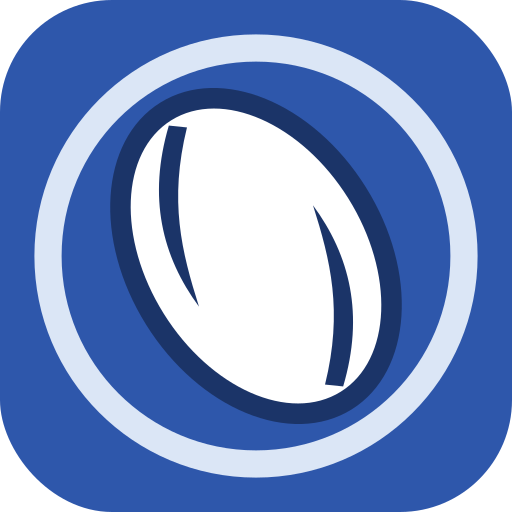
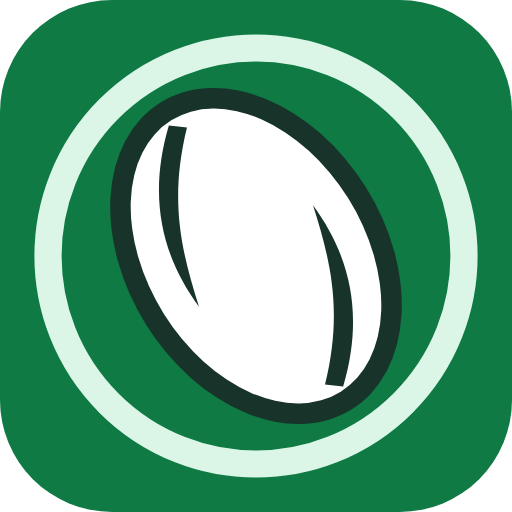
The badge goes green, the marks go, and two clubs take their terrace names
Five things the owner asked for.

The app icon was still brand blue while everything else went charcoal
and green a release ago - the in-app BrandMark already read the green
ramp from tokens, but a favicon cannot see a CSS variable, so the icon
files kept the old literals. icon.svg now carries the same ramp
(--ramp-g7 shell, --ramp-g9 keyline) written out, and the PNGs are
regenerated from it. scripts/icons.mjs rendered only 192 and 512; 180
was missing from the list, which is why the apple-touch icon - the one
an iPhone home screen actually shows - would have stayed blue through a
brand change. It is in the list now.

Harlequins becomes Quins Rugby and Saracens becomes Sarries RFC: the
names the terraces use rather than the registered ones, which is a
better answer to the trademark problem than either the district names
of v1.0.2 or the full club names of v1.0.3.

public/logos is deleted. It held nothing but a README telling players
to drop real club crests in as <clubId>.png, for a lookup the UI
removed a while back - a shipped instruction to install third-party
logos, for a feature that no longer existed. Crests are generated; no
code path referenced the folder.

The three neutral finals venues kept as generic place names were
registered marks after all: Wembley Stadium is now the English Football
Stadium (the owner's name), Murrayfield the Edinburgh Stadium, and the
Stade Velodrome the Marseille Stadium.
[…]

diff --git a/src/game/model.ts b/src/game/model.ts
@@ -138,10 +138,10 @@ export const EURO_FINAL_VENUES: FinalVenue[] = [
   { name: 'Greater Twickenham', city: 'London', capacity: 82000 },
   { name: 'Grand Stade de Paris', city: 'Paris', capacity: 80698 },
   { name: 'Cardiff National Stadium', city: 'Cardiff', capacity: 74500 },
-  { name: 'Stade Velodrome', city: 'Marseille', capacity: 67394 },
-  { name: 'Murrayfield', city: 'Edinburgh', capacity: 67144 },
+  { name: 'Marseille Stadium', city: 'Marseille', capacity: 67394 },
+  { name: 'Edinburgh Stadium', city: 'Edinburgh', capacity: 67144 },
   { name: 'Crocker Park', city: 'Dublin', capacity: 82300 },
-  { name: 'Wembley Stadium', city: 'London', capacity: 90000 },
+  { name: 'English Football Stadium', city: 'London', capacity: 90000 },
 ]
 
 /** Where a competition's final is played, or null for finals that stay at the

diff --git a/src/data/leagues/prem_a.ts b/src/data/leagues/prem_a.ts
@@ -190,7 +190,7 @@ export const PREM_A: RawClub[] = [
     ],
   },
   {
-    id: 'harlequins', name: 'Harlequins RFC', short: 'Harlequins',
+    id: 'harlequins', name: 'Quins Rugby', short: 'Quins',
     city: 'London', country: 'ENG',
     stadium: 'Little Twickenham', capacity: 14800,
     colors: ['#006747', '#b7228f'],

diff --git a/src/data/leagues/prem_b.ts b/src/data/leagues/prem_b.ts
@@ -176,7 +176,7 @@ export const PREM_B: RawClub[] = [
     ],
   },
   {
-    id: 'saracens', name: 'Saracens RFC', short: 'Saracens',
+    id: 'saracens', name: 'Sarries RFC', short: 'Sarries',
     city: 'London', country: 'ENG',
     stadium: 'Hendon Park', capacity: 10500,
     colors: ['#000000', '#d31145'],

diff --git a/docs/ip-rename-map.md b/docs/ip-rename-map.md
@@ -4,7 +4,10 @@ Status: **applied to `src/data/leagues/` on 2026-08-23**, along with the
 neutral finals venues in `model.ts` (Twickenham → Greater Twickenham, Stade de
 France → Grand Stade de Paris, Principality → Cardiff National Stadium, Croke
 Park → Crocker Park; Velodrome/Murrayfield/Wembley kept as generic place
-names) and the challenge/legacy texts that named Thomond Park and the Cornish
+names; Wembley → English Football Stadium, Murrayfield → Edinburgh Stadium
+and Stade Velodrome → Marseille Stadium followed in v1.0.3, all three being
+registered marks rather than the generic place names they were kept as) and
+the challenge/legacy texts that named Thomond Park and the Cornish
 Pirates. This addresses the club/ground half of the store blocker in
 `release-readiness.md` §1.1. Player names (~1,600) and competition names are
 a separate pass and NOT yet done. **v1.0.3** restored Harlequins and Saracens
@@ -25,7 +28,8 @@ Ground rules:
    "FC" to stay distinct from the top flight's Sale RFC. Harlequins and
    Saracens were district-renamed in v1.0.2 and restored by the owner in
    v1.0.3: both names are ordinary English words rather than places, and the
-   owner wanted them back.
+   owner wanted them back — as Quins Rugby and Sarries RFC, the terrace
+   short forms rather than the registered club names.
 4. **Ground names follow the owner's near-miss convention** (set on the
    Premiership): a soundalike of the real name (Ashton Gate → Ashford Gate,
    Kingsholm → Kinshome), a street-type swap (Welford Road → Welford Street),
@@ -46,12 +50,12 @@ Rows marked **(owner)** were chosen by the owner and are locked.
 | Bristol Bears | Bristol RFC | Ashton Gate | Ashford Gate **(owner)** |
 | Exeter Chiefs | Exeter RFC | Sandy Park | Beachy Park **(owner)** |
 | Gloucester Rugby | Gloucester RFC | Kingsholm | Kinshome **(owner)** |
-| Harlequins | Harlequins RFC **(owner, v1.0.3)** | Twickenham Stoop | Little Twickenham **(owner)** |
+| Harlequins | Quins Rugby **(owner, v1.0.3)** | Twickenham Stoop | Little Twickenham **(owner)** |
 | Leicester Tigers | Leicester RFC | Mattioli Woods Welford Road | Welford Street **(owner)** |
 | Newcastle Red Bulls | Newcastle RFC | Kingston Park | Gosforth Centre **(owner)** |
 | Northampton Saints | Northampton RFC **(owner)** | cinch Stadium at Franklin's Gardens | The Gardens **(owner)** |
 | Sale Sharks | Sale RFC | Salford Community Stadium | Salford City Stadium **(owner)** |
-| Saracens | Saracens RFC **(owner, v1.0.3)** | StoneX Stadium | Hendon Park |
+| Saracens | Sarries RFC **(owner, v1.0.3)** | StoneX Stadium | Hendon Park |
 
 Note on Salford City Stadium: that was the ground's actual former real-world
 name (pre-AJ Bell), and Salford City FC exists; "Salford Stadium" would be one
